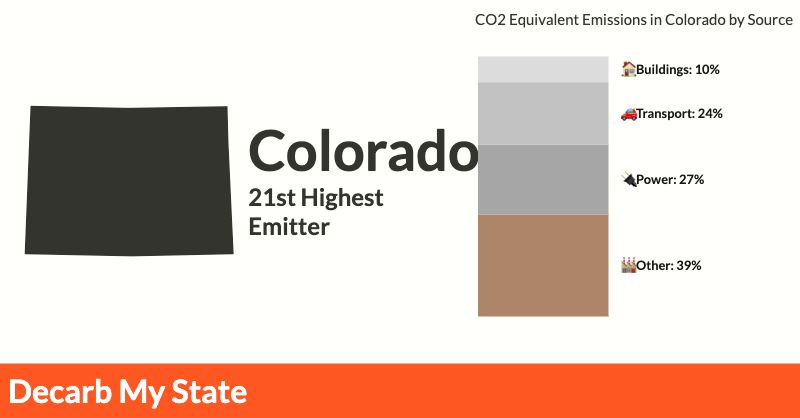
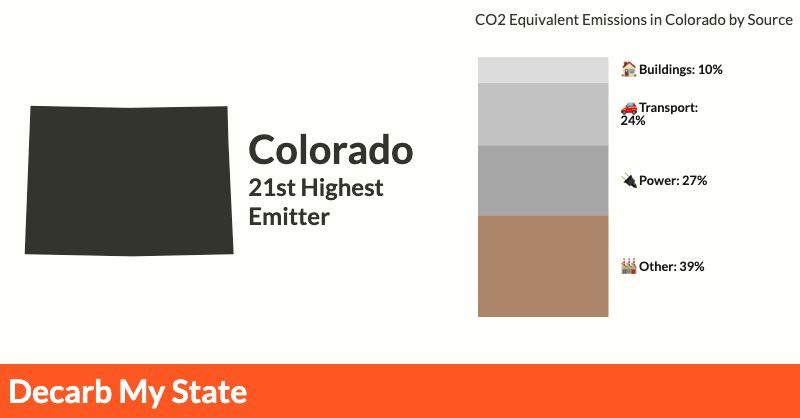
fixed clipping for colorado, kentucky massachusetts, and nebraska, all states should be fixd now

diff --git a/src/pages/social-card.js b/src/pages/social-card.js
@@ -107,12 +107,15 @@ const SocialCardPage = ({ location, data }) => {
     currentState === "oklahoma" ||
     currentState === "connecticut" ||
     currentState === "maryland" ||
-    currentState === "north_carolina"
+    currentState === "north_carolina" ||
+    currentState === "colorado" ||
+    currentState === "kentucky" ||
+    currentState === "nebraska"
   ) {
     stateNameSize = 2.5;
   }
   if (currentState === "massachusetts") {
-    stateNameSize = 1.7;
+    stateNameSize = 1.6;
   }
 
   return (
